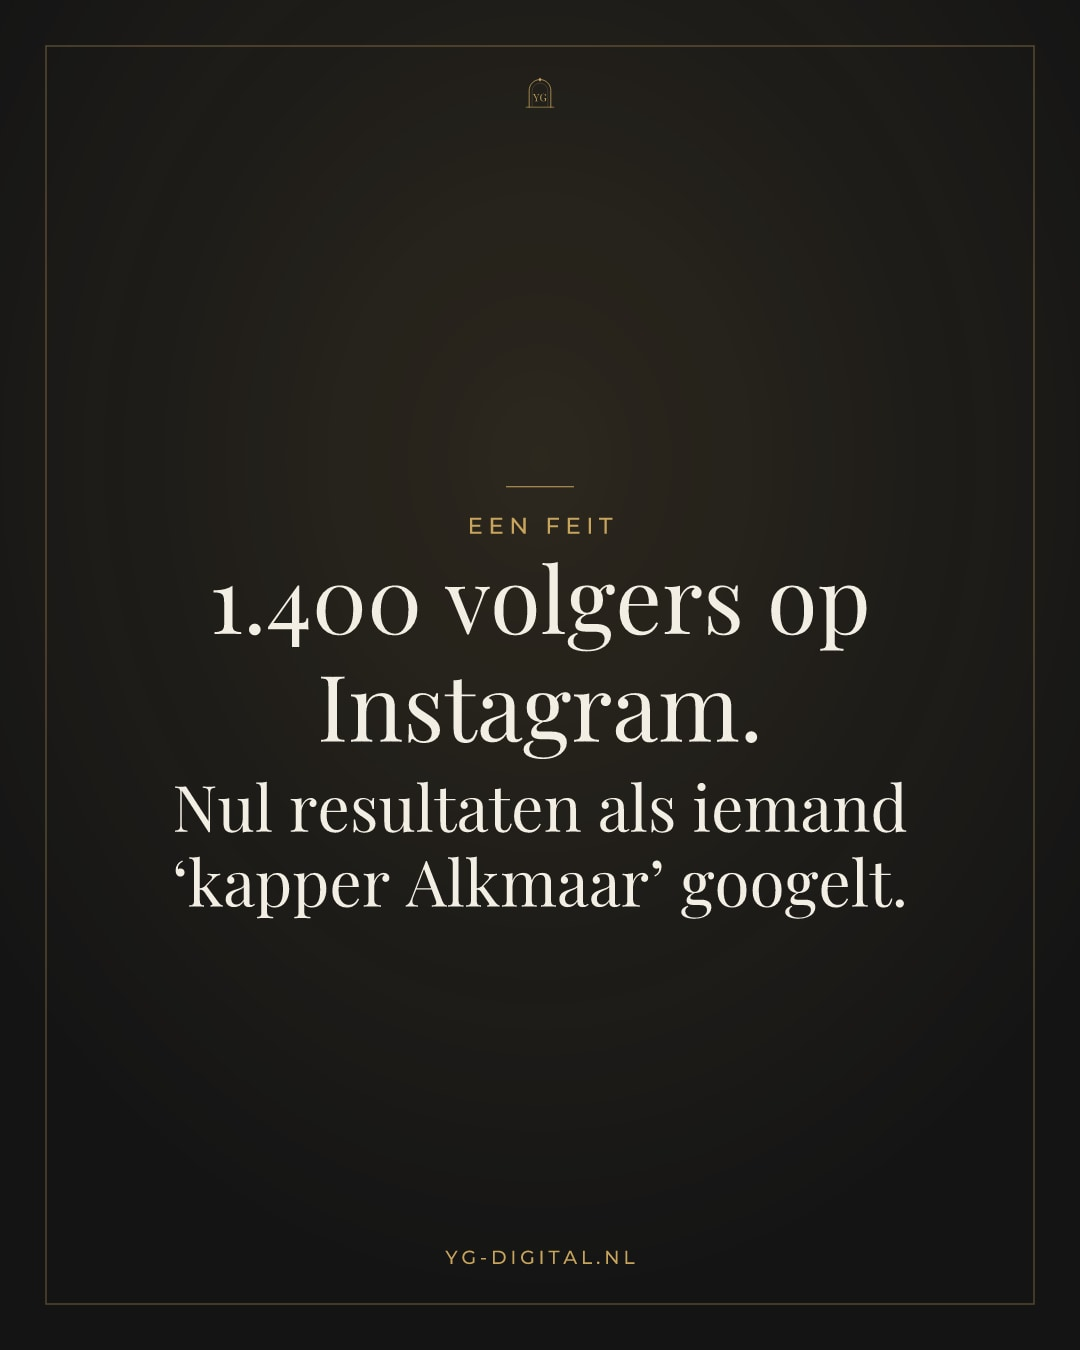
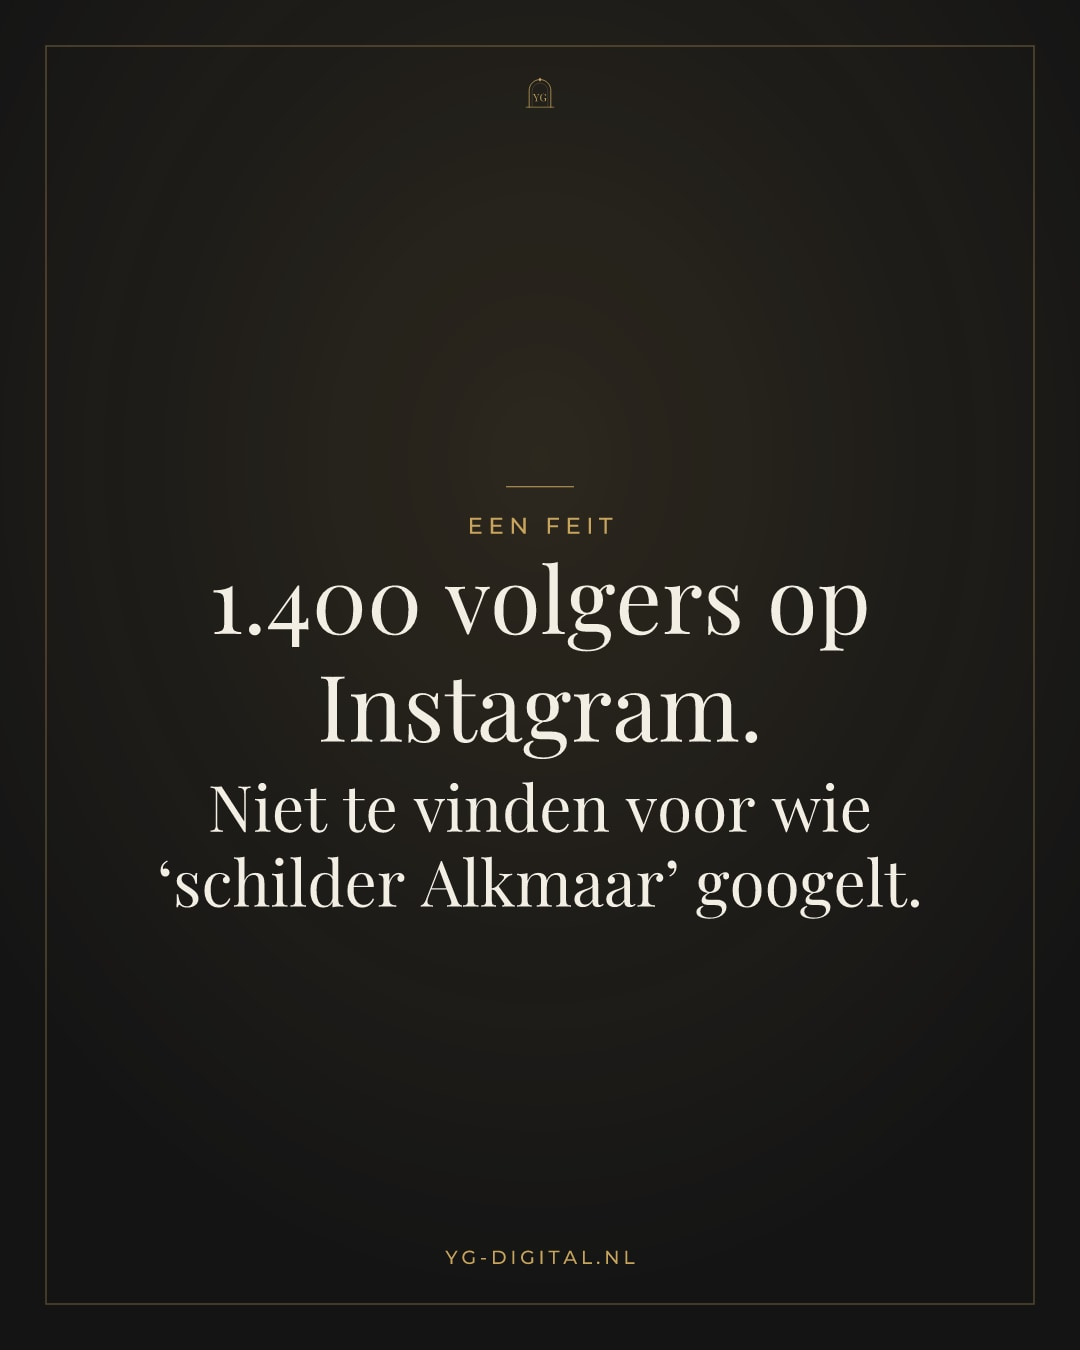
T01 gecorrigeerd: kop plaat 1 'Niet te vinden voor wie schilder Alkmaar googelt' (Andries via Kantoor, 25 okt 13:37: T01 akkoord)
Andries via Kantoor, 25 okt 13:37: "T01 akkoord". Kop van plaat 1 vervangen
(nul resultaten → niet te vinden; kapper → schilder), bijschrift regel 1 en
#kapper → #schilder, alt-tekst 1, beeld/berichten/nl/T01-1.jpg overschreven,
planningsitem 2026-10-30-bericht-t01: titel, tekst en alt[0] bijgewerkt
(datum, tijd en beelden ongewijzigd; plaat 2 ongewijzigd). Raster vernieuwd.
Logboek: K02 geplaatst 23 okt 20:08, media-id 18140360860622623.

Changed region(s): [[0.1528, 0.56, 0.8556, 0.6844]]

diff --git a/docs/oplevering-manon.md b/docs/oplevering-manon.md
@@ -5,4 +5,5 @@ Eén regel per sessie: datum · gedaan · open · vragen. Details per pakket sta
 | Datum | Gedaan | Open | Vragen voor Eva of Andries |
 |---|---|---|---|
 | wo 21 okt | §1 van opdracht 01: oud werk vorige sessie gecommit (`2ef0cd0`: poort-omslagen, profielfoto-module, highlightplaat Entree 1; grote bronbestanden in `.gitignore`). Pakket K02 Autoschade Lindevoort (fictief) gemaakt en gepusht (`976e248`), proef geslaagd, `preview/raster-K02.jpg`, `gereedschap/raster-preview.cjs` (nieuw), `docs/bio.md` (twee varianten), `docs/oplevering-01.md`. Gemeld: "pakket K02 klaar". | Inplannen K02 wacht op OK. `docs/highlights.md` nog niet. | — |
-| do 22 okt | "Pakket OK voor K02" van Andries in mijn sessie → K02 ingepland vr 23 okt 19:00 (`f17231f`). Pakket K03 Schildersbedrijf Hollenbeek (fictief) gemaakt en gepusht (`f8f6064`), gemeld "pakket K03 klaar"; daarna **"Pakket OK voor K03. Plan hem in voor maandag 26 oktober 19:00, commit en push." van Andries in mijn sessie** → K03 ingepland (`d383968`). Pakket W01 entree van yg-digital.nl gemaakt en gepusht (`cd5dc10`): vier platen met echte schermafdrukken, proef geslaagd, `preview/raster-W01.jpg`. Gemeld: "pakket W01 klaar". Crew-kop van Eva gelezen (`0117bfe`); dit logboek opgezet. Later die avond: **"Pakket OK voor W01" van Andries in mijn sessie** → W01 ingepland wo 28 okt 19:00 (`5a6a09f`). Pakket T01 (feit, twee platen goud op donker, tekenmachine) gemaakt en gepusht, proef geslaagd, `preview/raster-T01.jpg`. Gemeld: "pakket T01 klaar". Daarna **"Pakket OK voor T01. Plan hem in voor vrijdag 30 oktober 19:00, commit en push." van Andries in mijn sessie** → T01 ingepland vr 30 okt 19:00. Batch 1 staat daarmee volledig in de planning. | `docs/highlights.md` nog niet. Na vr 23, ma 26 en wo 28 okt 19:00: `gedaan.json` controleren en "geplaatst" melden met mediaId. Batch 2: planning van Eva afwachten. | **K03:** OPDRACHT-ACTUEEL zegt dat K03 zonder OK is ingepland. Het OK kwam wel: Andries gaf het op 22 okt rechtstreeks in mijn Claude Code-sessie, met code en datum (tekst hierboven; ook in de commit-boodschap van `d383968`). Eva zag die chat niet. Graag bevestigen bij Eva; ik raak K03 niet aan tot Eva of Andries iets zegt. |
+| do 22 okt | "Pakket OK voor K02" van Andries in mijn sessie → K02 ingepland vr 23 okt 19:00 (`f17231f`). Pakket K03 Schildersbedrijf Hollenbeek (fictief) gemaakt en gepusht (`f8f6064`), gemeld "pakket K03 klaar"; daarna **"Pakket OK voor K03. Plan hem in voor maandag 26 oktober 19:00, commit en push." van Andries in mijn sessie** → K03 ingepland (`d383968`). Pakket W01 entree van yg-digital.nl gemaakt en gepusht (`cd5dc10`): vier platen met echte schermafdrukken, proef geslaagd, `preview/raster-W01.jpg`. Gemeld: "pakket W01 klaar". Crew-kop van Eva gelezen (`0117bfe`); dit logboek opgezet. Later die avond: **"Pakket OK voor W01" van Andries in mijn sessie** → W01 ingepland wo 28 okt 19:00 (`5a6a09f`). Pakket T01 (feit, twee platen goud op donker, tekenmachine) gemaakt en gepusht, proef geslaagd, `preview/raster-T01.jpg`. Gemeld: "pakket T01 klaar". Daarna **"Pakket OK voor T01. Plan hem in voor vrijdag 30 oktober 19:00, commit en push." van Andries in mijn sessie** → T01 ingepland vr 30 okt 19:00. Batch 1 staat daarmee volledig in de planning. | `docs/highlights.md` nog niet. Na vr 23, ma 26 en wo 28 okt 19:00: `gedaan.json` controleren en "geplaatst" melden met mediaId. Batch 2: planning van Eva afwachten. |
+| zo 25 okt | **K02 geplaatst** vr 23 okt 20:08, media-id 18140360860622623 (`gedaan.json`, commit `16e0c92` van de automaat). **T01 gecorrigeerd** op akkoord van Andries via Kantoor, 25 okt 13:37: "T01 akkoord" — kop plaat 1 nu "1.400 volgers op Instagram. Niet te vinden voor wie ‘schilder Alkmaar’ googelt.", bijschrift regel 1 en #kapper → #schilder, alt-tekst 1, `beeld/berichten/nl/T01-1.jpg` overschreven, planningsitem (titel, tekst, alt[0]) bijgewerkt, raster vernieuwd; datum, tijd en beelden ongewijzigd. Daarna W02 (ontwerpstudio) gestart. | K03 ma 26 okt 19:00, W01 wo 28 okt, T01 vr 30 okt: na plaatsing `gedaan.json` controleren. W02 (vr 6 nov) in de maak; daarna Z01 en het A37-sjabloon. `docs/highlights.md` na batch 1. | — | **K03:** OPDRACHT-ACTUEEL zegt dat K03 zonder OK is ingepland. Het OK kwam wel: Andries gaf het op 22 okt rechtstreeks in mijn Claude Code-sessie, met code en datum (tekst hierboven; ook in de commit-boodschap van `d383968`). Eva zag die chat niet. Graag bevestigen bij Eva; ik raak K03 niet aan tot Eva of Andries iets zegt. |
